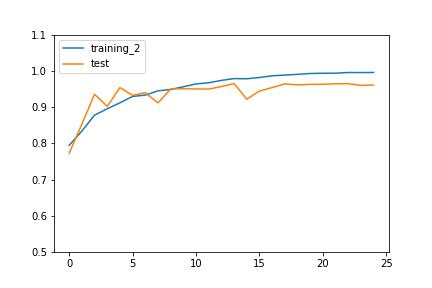
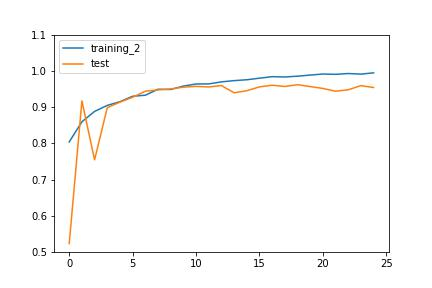
Retraining MobilNet Fine Tuning

Changed region(s): [[0.1505, 0.2188, 0.8727, 0.8438]]

diff --git a/Web/pages/4 - Bonus.py b/Web/pages/4 - Bonus.py
@@ -331,6 +331,7 @@ with tab2:
                 st.header("Matrice de confusion.")
                 st.plotly_chart(plot_matrice_confus(".\MobileNetV2\Training\MobileNetV2 64x64 - 5\\"), use_container_width=True)
                 
+                
             with col12:     
                      
                   st.header("Métriques.")
@@ -359,10 +360,92 @@ with tab2:
             
             st.plotly_chart(plot_train_graph(".\MobileNetV2\Fine tunning\MobileNetV2 Imagenet\\"), use_container_width=True)
             
+            st.title("Model.")
+            code = '''
+            model=MobileNetV2(include_top=False,
+                              weights='imagenet',
+                              input_tensor=None,
+                              input_shape=(SIZE,SIZE,3),
+                              pooling='max',
+                              classes=np.max(train_labels+1))
+        
+            Total params: 2,257,984
+            Trainable params: 2,223,872
+            Non-trainable params: 34,112
+                    '''
+            st.code(code, language='python')
+            
+            col11, col12 = st.columns(2)
+            
+            with col11:     
+            
+                st.header("Matrice de confusion.")
+                st.plotly_chart(plot_matrice_confus(".\MobileNetV2\Fine tunning\MobileNetV2 Imagenet\\"), use_container_width=True)
+                
+            with col12:     
+                     
+                  st.header("Métriques.")
+                 
+                  with open('.\MobileNetV2\Fine tunning\MobileNetV2 Imagenet\performance.pickle', 'rb') as f:
+                      performance=pickle.load(f)
+                    
+                  st.subheader("")
+                  st.subheader("")
+                  st.subheader("")
+                  st.subheader("")
+                  st.subheader("")
+                  st.subheader("")
+                 
+                  st.subheader("Precision : " + str(round(performance[0]*100, 3)) +" %")
+                  st.subheader("Recall : " + str(round(performance[1]*100, 3)) +" %")
+                  st.subheader("f_score : " + str(round(performance[2]*100, 3)) +" %")
+            
         with tab12:
             
             st.plotly_chart(plot_train_graph(".\MobileNetV2\Fine tunning\MobileNetV2 Imagenet 0.35\\"), use_container_width=True)
             
+            st.title("Model.")
+            code = '''
+            model=MobileNetV2(include_top=False,
+                              weights='imagenet',
+                              alpha=0.35,
+                              input_tensor=None,
+                              input_shape=(SIZE,SIZE,3),
+                              pooling='max',
+                              classes=np.max(train_labels+1))
+        
+            Total params: 410,208
+            Trainable params: 396,128
+            Non-trainable params: 14,080
+                    '''
+            st.code(code, language='python')
+            
+            col11, col12 = st.columns(2)
+            
+            with col11:     
+            
+                st.header("Matrice de confusion.")
+                st.plotly_chart(plot_matrice_confus(".\MobileNetV2\Fine tunning\MobileNetV2 Imagenet 0.35\\"), use_container_width=True)
+                
+            with col12:     
+                     
+                  st.header("Métriques.")
+                 
+                  with open('.\MobileNetV2\Fine tunning\MobileNetV2 Imagenet 0.35\performance.pickle', 'rb') as f:
+                      performance=pickle.load(f)
+                    
+                  st.subheader("")
+                  st.subheader("")
+                  st.subheader("")
+                  st.subheader("")
+                  st.subheader("")
+                  st.subheader("")
+                 
+                  st.subheader("Precision : " + str(round(performance[0]*100, 3)) +" %")
+                  st.subheader("Recall : " + str(round(performance[1]*100, 3)) +" %")
+                  st.subheader("f_score : " + str(round(performance[2]*100, 3)) +" %")         
+                    
+                    
     else:   
         # Création de 4 onglets
         tab11, tab12, tab13, tab14 = st.tabs(["Alpha = 1 (160x160)", 
@@ -372,6 +455,54 @@ with tab2:
         with tab11:
             
             st.plotly_chart(plot_train_graph(".\MobileNetV2\Transfere learning\MobileNetV2 160x160\\"), use_container_width=True)
+            
+            st.title("Model.")
+            code = '''
+            model = Sequential()
+
+            model.add(MobileNetV2 (include_top=False,
+                              weights="imagenet",
+                              alpha=1.0,
+                              pooling='max'))
+
+            # model.add(Flatten())
+
+            model.add(Dense(64, activation="relu"))
+            model.add(Dense(64, activation="relu"))
+            model.add(Dense(2, activation = 'softmax'))
+            model.layers[0].trainable = False
+        
+        
+            Total params: 2,344,258
+            Trainable params: 86,274
+            Non-trainable params: 2,257,984
+                    '''
+            st.code(code, language='python')
+            
+            col11, col12 = st.columns(2)
+            
+            with col11:     
+            
+                st.header("Matrice de confusion.")
+                st.plotly_chart(plot_matrice_confus(".\MobileNetV2\Transfere learning\MobileNetV2 160x160\\"), use_container_width=True)
+                
+            with col12:     
+                     
+                  st.header("Métriques.")
+                 
+                  with open('.\MobileNetV2\Transfere learning\MobileNetV2 160x160\performance.pickle', 'rb') as f:
+                      performance=pickle.load(f)
+                    
+                  st.subheader("")
+                  st.subheader("")
+                  st.subheader("")
+                  st.subheader("")
+                  st.subheader("")
+                  st.subheader("")
+                 
+                  st.subheader("Precision : " + str(round(performance[0]*100, 3)) +" %")
+                  st.subheader("Recall : " + str(round(performance[1]*100, 3)) +" %")
+                  st.subheader("f_score : " + str(round(performance[2]*100, 3)) +" %")         
             
         with tab12:
             

diff --git a/Web/MobileNetV2/Transfere learning/MobileNetV2 160x160/evaluate_validation_dataset.py b/Web/MobileNetV2/Transfere learning/MobileNetV2 160x160/evaluate_validation_dataset.py
@@ -18,8 +18,15 @@ from sklearn.metrics import confusion_matrix, precision_recall_fscore_support
 SIZE=160
 SEED=30
 
+import pathlib
+
+path=pathlib.Path(__file__).parent.absolute()
+path = str(path.parent.parent.parent) + "\dataset_" + str(SIZE) + ".pickle"
+
+print(path)
+
 # Ouverture des données avec pickl
-with open("dataset_" + str(SIZE)+".pickle", "rb") as f:
+with open(path, "rb") as f:
     data = pickle.load(f)
 
 # Conversion des données en DataFrame
@@ -34,7 +41,10 @@ train_df, test_df = train_test_split(df,
 # Import du modèle sauvegardé
 from tensorflow.keras.models import load_model
 
-model = load_model('model_resnet50.h5')
+model = load_model('model_MobileNetV2_Transfère_Learning.h5')
+
+model.summary()
+
  
 # Encodage des étiquettes avec LabelEncoder    
 le = LabelEncoder()
@@ -42,13 +52,6 @@ le = LabelEncoder()
 # Conversion des images et des étiquettes en tableaux Numpy
 val_images = np.array(test_df['images'].to_list())#/ 255.0
 val_labels = le.fit_transform(np.array(test_df['labels'].to_list()))    
-
-# Enregistrement des images de validation et des labels
-with open('val_images' + str(SIZE)+'.pickle', 'wb') as f:
-    pickle.dump(val_images, f)
-
-with open('val_labels' + str(SIZE)+'.pickle', 'wb') as f:
-    pickle.dump(val_labels, f)
 
 # Évaluation du modèle sur les données de validation
 pred_labels = np.argmax(model.predict(val_images), axis=-1)

diff --git a/Web/MobileNetV2/Fine tunning/MobileNetV2 Imagenet 0.35/evaluate_validation_dataset.py b/Web/MobileNetV2/Fine tunning/MobileNetV2 Imagenet 0.35/evaluate_validation_dataset.py
@@ -18,8 +18,15 @@ from sklearn.metrics import confusion_matrix, precision_recall_fscore_support
 SIZE=160
 SEED=30
 
+import pathlib
+
+path=pathlib.Path(__file__).parent.absolute()
+path = str(path.parent.parent.parent) + "\dataset_" + str(SIZE) + ".pickle"
+
+print(path)
+
 # Ouverture des données avec pickl
-with open("dataset_" + str(SIZE)+".pickle", "rb") as f:
+with open(path, "rb") as f:
     data = pickle.load(f)
 
 # Conversion des données en DataFrame
@@ -34,7 +41,10 @@ train_df, test_df = train_test_split(df,
 # Import du modèle sauvegardé
 from tensorflow.keras.models import load_model
 
-model = load_model('model_resnet50.h5')
+model = load_model('model_MobileNetV2.h5')
+
+model.summary()
+
  
 # Encodage des étiquettes avec LabelEncoder    
 le = LabelEncoder()
@@ -42,13 +52,6 @@ le = LabelEncoder()
 # Conversion des images et des étiquettes en tableaux Numpy
 val_images = np.array(test_df['images'].to_list())#/ 255.0
 val_labels = le.fit_transform(np.array(test_df['labels'].to_list()))    
-
-# Enregistrement des images de validation et des labels
-with open('val_images' + str(SIZE)+'.pickle', 'wb') as f:
-    pickle.dump(val_images, f)
-
-with open('val_labels' + str(SIZE)+'.pickle', 'wb') as f:
-    pickle.dump(val_labels, f)
 
 # Évaluation du modèle sur les données de validation
 pred_labels = np.argmax(model.predict(val_images), axis=-1)

diff --git a/Web/MobileNetV2/Fine tunning/MobileNetV2 Imagenet/evaluate_validation_dataset.py b/Web/MobileNetV2/Fine tunning/MobileNetV2 Imagenet/evaluate_validation_dataset.py
@@ -18,8 +18,15 @@ from sklearn.metrics import confusion_matrix, precision_recall_fscore_support
 SIZE=160
 SEED=30
 
+import pathlib
+
+path=pathlib.Path(__file__).parent.absolute()
+path = str(path.parent.parent.parent) + "\dataset_" + str(SIZE) + ".pickle"
+
+print(path)
+
 # Ouverture des données avec pickl
-with open("dataset_" + str(SIZE)+".pickle", "rb") as f:
+with open(path, "rb") as f:
     data = pickle.load(f)
 
 # Conversion des données en DataFrame
@@ -34,7 +41,10 @@ train_df, test_df = train_test_split(df,
 # Import du modèle sauvegardé
 from tensorflow.keras.models import load_model
 
-model = load_model('model_resnet50.h5')
+model = load_model('model_MobileNetV2.h5')
+
+model.summary()
+
  
 # Encodage des étiquettes avec LabelEncoder    
 le = LabelEncoder()
@@ -42,13 +52,6 @@ le = LabelEncoder()
 # Conversion des images et des étiquettes en tableaux Numpy
 val_images = np.array(test_df['images'].to_list())#/ 255.0
 val_labels = le.fit_transform(np.array(test_df['labels'].to_list()))    
-
-# Enregistrement des images de validation et des labels
-with open('val_images' + str(SIZE)+'.pickle', 'wb') as f:
-    pickle.dump(val_images, f)
-
-with open('val_labels' + str(SIZE)+'.pickle', 'wb') as f:
-    pickle.dump(val_labels, f)
 
 # Évaluation du modèle sur les données de validation
 pred_labels = np.argmax(model.predict(val_images), axis=-1)

diff --git a/Web/MobileNetV2/Transfere learning/MobileNetV2 160x160/CNN_net_Transfer Learning.py b/Web/MobileNetV2/Transfere learning/MobileNetV2 160x160/CNN_net_Transfer Learning.py
@@ -16,12 +16,19 @@ from tensorflow.keras.losses import SparseCategoricalCrossentropy
 from tensorflow.keras.backend import clear_session
 from sklearn.model_selection import train_test_split
 from sklearn.preprocessing import LabelEncoder
+import pathlib
 
 SIZE=160
 BATCH_SIZE = 15
-SEED = 32
+SEED = 30
 
-with open("dataset_" + str(SIZE)+".pickle", "rb") as f:
+
+path=pathlib.Path(__file__).parent.absolute()
+path = str(path.parent.parent.parent) + "\dataset_" + str(SIZE) + ".pickle"
+
+print(path)
+
+with open(path, "rb") as f:
     data = pickle.load(f)
 
 df = pd.DataFrame.from_dict(data)

diff --git a/Web/MobileNetV2/Fine tunning/MobileNetV2 Imagenet 0.35/TensorflowEval.py b/Web/MobileNetV2/Fine tunning/MobileNetV2 Imagenet 0.35/TensorflowEval.py
@@ -34,7 +34,7 @@ def initialize():
     train_df, test_df = train_test_split(df, 
                                          test_size=0.3,
                                          stratify=df['labels'],
-                                         random_state=32)
+                                         random_state=30)
 
     le = LabelEncoder()
 

diff --git a/Web/MobileNetV2/Fine tunning/MobileNetV2 Imagenet/TensorflowEval.py b/Web/MobileNetV2/Fine tunning/MobileNetV2 Imagenet/TensorflowEval.py
@@ -34,7 +34,7 @@ def initialize():
     train_df, test_df = train_test_split(df, 
                                          test_size=0.3,
                                          stratify=df['labels'],
-                                         random_state=32)
+                                         random_state=30)
 
     le = LabelEncoder()
 
